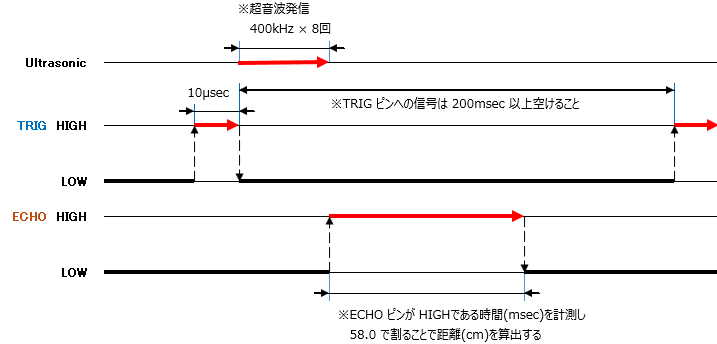
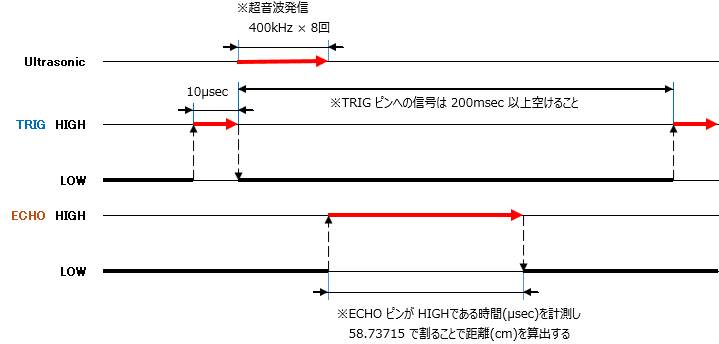
[upd]誤記修正

diff --git a/UltrasonicSensorHCSR04/UltrasonicSensorHCSR04.md b/UltrasonicSensorHCSR04/UltrasonicSensorHCSR04.md
@@ -16,15 +16,23 @@ Arduino 向け超音波距離センサ用クラス定義
 1. 測距タイミングは ECHO からの入力ピンに対する割り込み処理を利用する
 1. TRIG および ECHO 動作タイミングは fig1-1 を参照
 
-![fig1-1](img/fig1-1.png)
+![fig1-1](img/fig1-1.png)  
 **fig1-1 超音波距離センサ動作タイミングチャート**
 
 ## Ⅱ.メンバ定義
 ### Ⅱ-ⅰ.定数
 |No |ID |Access |Type |Value |Abstruct |
 |:---:|:---|:---|:---:|---:|:---|
-|1 |TIME_DISTANCE_CONV_COEFFICIENT |private |float |58.1395F |時間距離変換用係数 |
-|2 |TRIGGER_SIGNAL_TRANSMISSION_TIME |private |unsigned long |10UL |トリガー信号発信時間 |
+|1 |TIME_DISTANCE_CONV_COEFFICIENT |private |float |58.73715F |時間距離変換用係数 |
+|2 |TRIGGER_SIGNAL_TRANSMISSION_TIME |private |unsigned long |10UL |トリガー信号発信時間(μsec) |
+|3 |TRIGGER_PROHIBITION_TIME |private |unsigned long |10UL |トリガー信号発信禁止時間(msec) |
+
+> [!TIP]
+> 時間距離変換用係数について、音速は 34050(cm/sec) となる(1 atm/15 °C の場合)ため経過時間 $t$ (μsec)から距離 $D$ (cm)を算出する以下式
+> $$D = \biggl(\frac{34050}{1000000} \cdot \frac{t}{2}\biggr)$$
+> より
+> $$D = \biggl(\frac{t}{58.73715}\biggr)$$
+> が導出されるため、除数として 58.73715F と定義する
 
 ### Ⅱ-ⅱ.変数
 |No |ID |Access |Type |Abstruct |
@@ -76,7 +84,8 @@ Arduino 向け超音波距離センサ用クラス定義
   - 測定開始時間に現在のマイクロ秒を格納する 
 * ECHO ピンの状態が HIGH → LOW の場合
   - 現在時から測定開始時間を引き、計測時間を取得する
-  - 計測時間から距離を算出し、メンバ 測定距離 に格納する
+  - 以下の式で計測時間 $t$ から距離 $D$ を算出し、メンバ 測定距離 に格納する  
+  $$D = \biggl(\frac{t}{58.73715}\biggr)$$
   - 現在時(ミリ秒)をメンバ 測定時間 に格納する
 
 #### Ⅱ-ⅲ-3.emitTrigger()
@@ -85,7 +94,7 @@ Arduino 向け超音波距離センサ用クラス定義
 
 2. 処理概要
 
-* 前回のトリガー送信から 200ms 超経過している場合、TRIG ピンを TRIGGER_SIGNAL_TRANSMISSION_TIME 分 HIGH にする
+* 前回のトリガー送信から 200ms 超経過している場合、TRIG ピンを TRIGGER_SIGNAL_TRANSMISSION_TIME の間 HIGH にする
 * 前回のトリガー送信から 200ms 以内の場合何もしない
 
 #### Ⅱ-ⅲ-4.getDistance()

diff --git a/InfraredSensorGP2Y0A21YK/InfraredSensorGP2Y0A21YK.md b/InfraredSensorGP2Y0A21YK/InfraredSensorGP2Y0A21YK.md
@@ -102,7 +102,7 @@ Arduino 向け赤外線測距センサ GP2Y0A21YK 用クラス定義
 
 * アナログ入力ピンからメンバ アナログデジタル変換値 の値を取得する
 * メンバ アナログデジタル変換値 ($ADC$) から換算電圧 ($V$) を以下式で算出してメンバ アナログ入力電圧 に格納する  
-$$V = \left( \frac{ADC}{1024} \cdot V_{ref} \right)$$
+$$V = \biggl( \frac{ADC}{1024} \cdot V_{ref} \biggr)$$
 * distanceConversion() メソッドをコールしてメンバ 測距距離 に格納する
 
 #### Ⅱ-ⅲ-6.distanceConversion()
